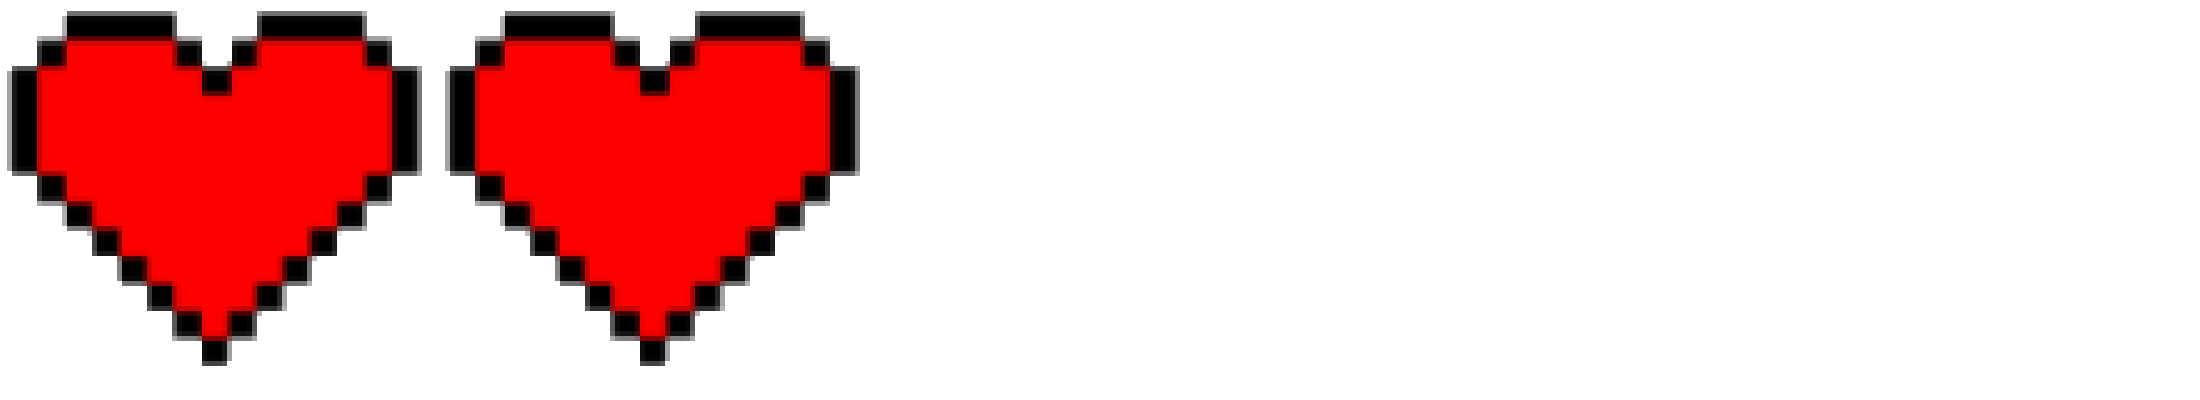
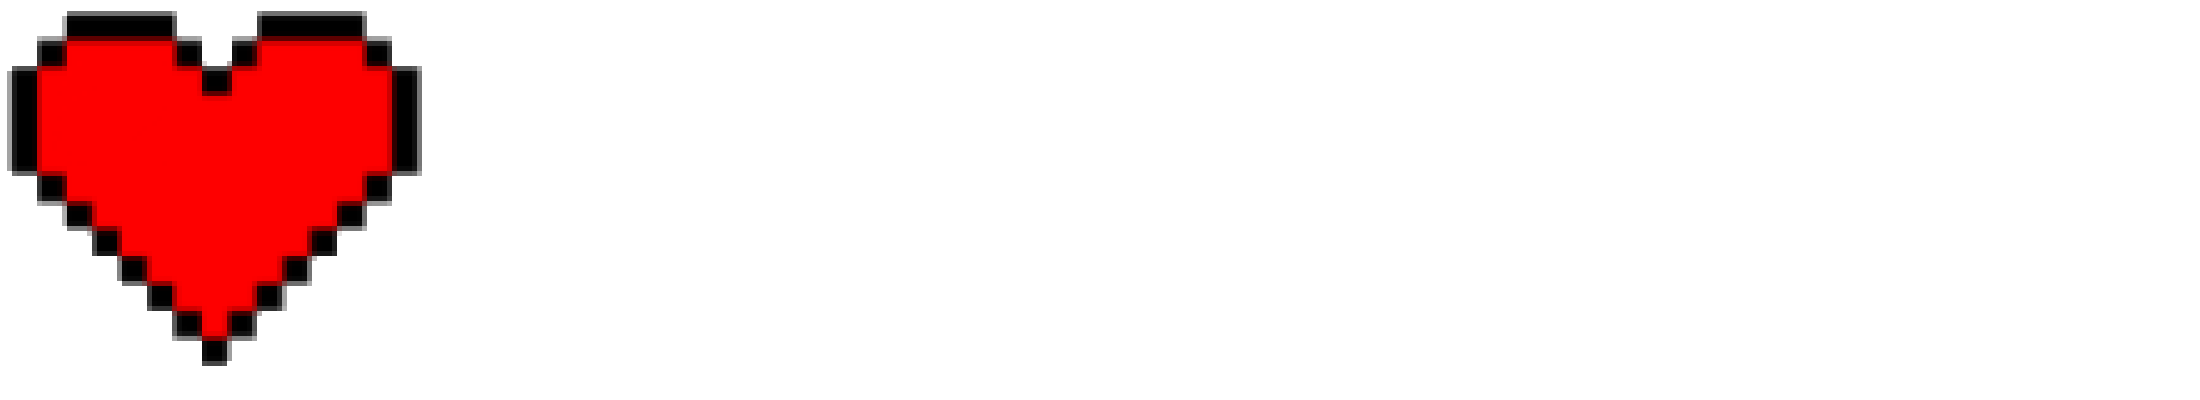
Updated Health

Changed region(s): [[0.1855, 0.03, 0.4018, 0.93]]

diff --git a/Game/GUI/GUI.ts b/Game/GUI/GUI.ts
@@ -4,7 +4,7 @@ namespace Game {
 
   export class Gui {
 
-    initialHealth: number = 5;
+    initialHealth: number = 10;
     initialWalkSpeed: number;
     initialJumpingPower: number;
     initialDamage: number;
